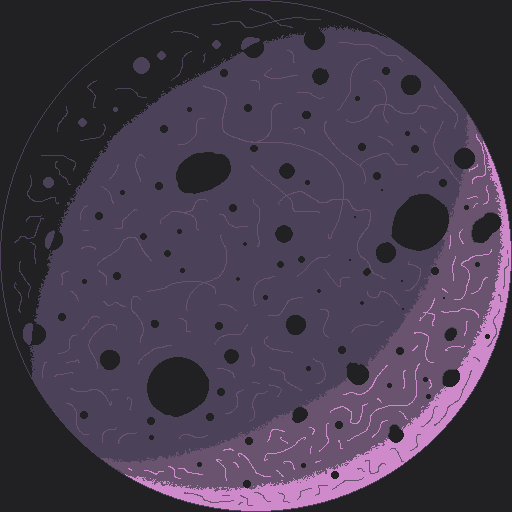
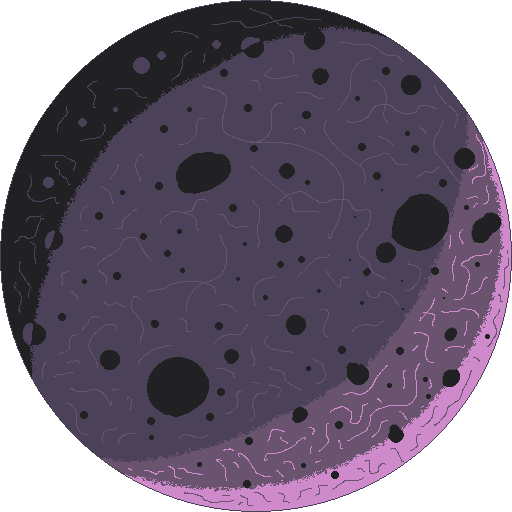
Updated Planets
Added Transparency Layer

diff --git a/frontend/space-mmo-web/public/godot/Godot-client.html b/frontend/space-mmo-web/public/godot/Godot-client.html
@@ -137,7 +137,7 @@ body {
 
 		<script src="Godot-client.js"></script>
 		<script>
-const GODOT_CONFIG = {"args":[],"canvasResizePolicy":2,"executable":"Godot-client","experimentalVK":false,"fileSizes":{"Godot-client.pck":1617248,"Godot-client.wasm":49282035},"focusCanvas":true,"gdextensionLibs":[]};
+const GODOT_CONFIG = {"args":[],"canvasResizePolicy":2,"executable":"Godot-client","experimentalVK":false,"fileSizes":{"Godot-client.pck":1627024,"Godot-client.wasm":49282035},"focusCanvas":true,"gdextensionLibs":[]};
 const engine = new Engine(GODOT_CONFIG);
 
 (function () {
